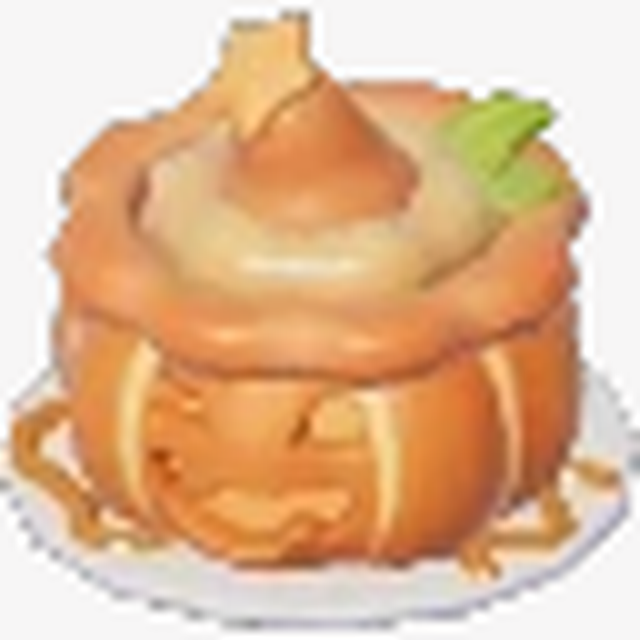
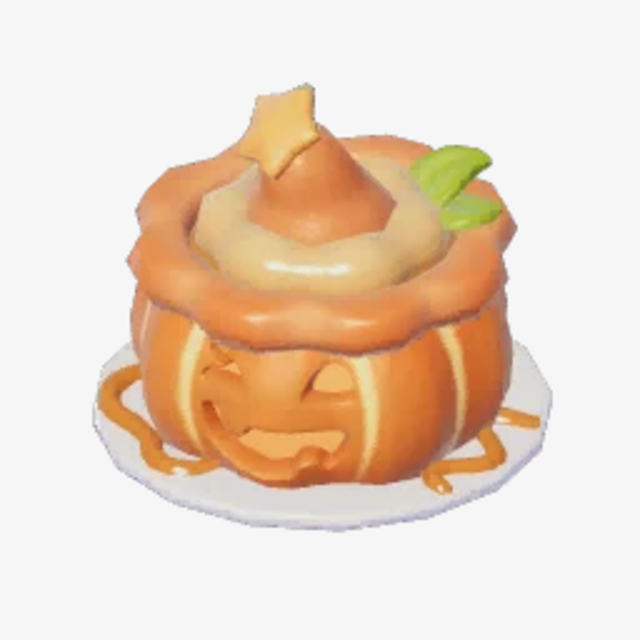
かぼちゃ料理4種の画像を実際の写真に差し替え
ユラユラチーズかぼちゃパスタ・かぼちゃニャンコクッキー・
不気味に笑うかぼちゃタルト・ユラユラかぼちゃチョコの画像を、
提供いただいた実際の写真（640x640・既存食材画像と同じ背景色に加工）に
差し替え。

Claude-Session: https://claude.ai/code/session_01K3eMRAeT6oYS9BRu22swvm

diff --git a/service-worker.js b/service-worker.js
@@ -1,5 +1,5 @@
 // キャッシュ名（更新時はバージョンを上げる）
-const CACHE_NAME = "hatopi-v2.542.0";
+const CACHE_NAME = "hatopi-v2.543.0";
 
 // キャッシュするファイル一覧
 const CACHE_FILES = [
